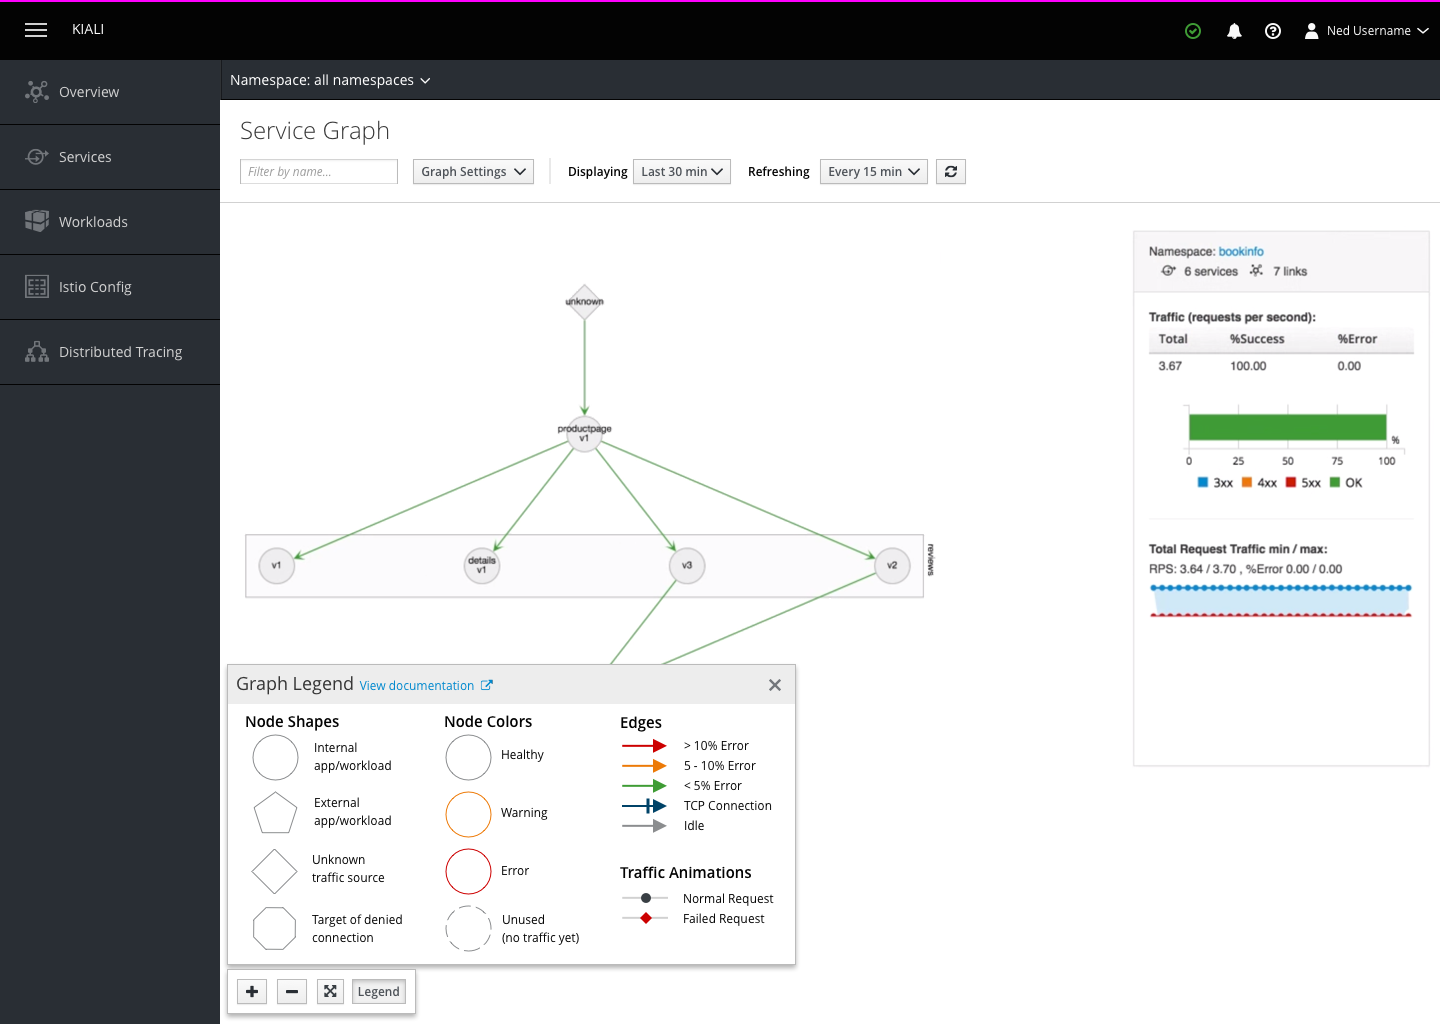
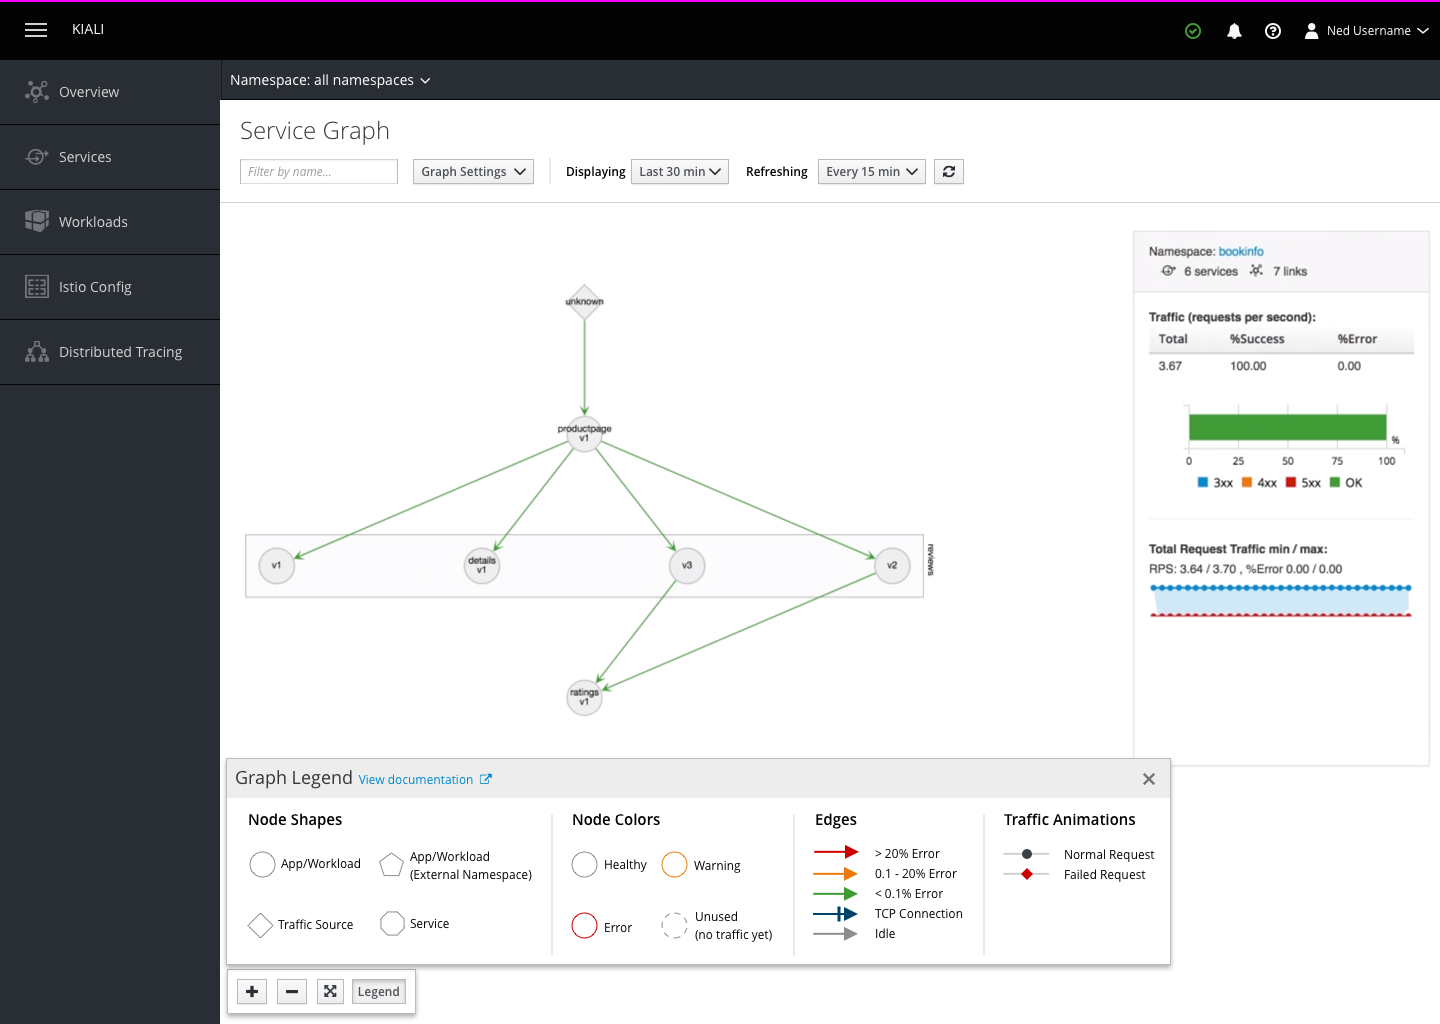
Update with final legend layout

diff --git a/service-graph/design.md b/service-graph/design.md
@@ -26,10 +26,6 @@ The graph legend appears when the legend trigger button is clicked and contains 
 1. **Close Button:** Dismisses the legend. Clicking on the legend trigger button again will also dismiss the legend
 1. **Key:** Contains all of the shapes and colors that have meaning on the graph and labels each with a succinct, descriptive phrase.
 
-### Optional Legend Layout
-![narrow graph legend](img/legend-alt.png)
-Optionally, the legend could be organized with a more horizontal layout. This would not work as well for narrow viewports, but might obstruct less of the graph on wide screens.
-
 ## Service Representation Colors
 Nodes in the service graph are colored according to their health. Borders are 1px wide for unselected nodes and 3px for selected nodes. Graph edges are colored similarly, with 1px lines when unselected, and 3px lines when selected. There is no separate hover state for graph edges, but items not directly connected to the hovered edge should be blurred into the background.
 
